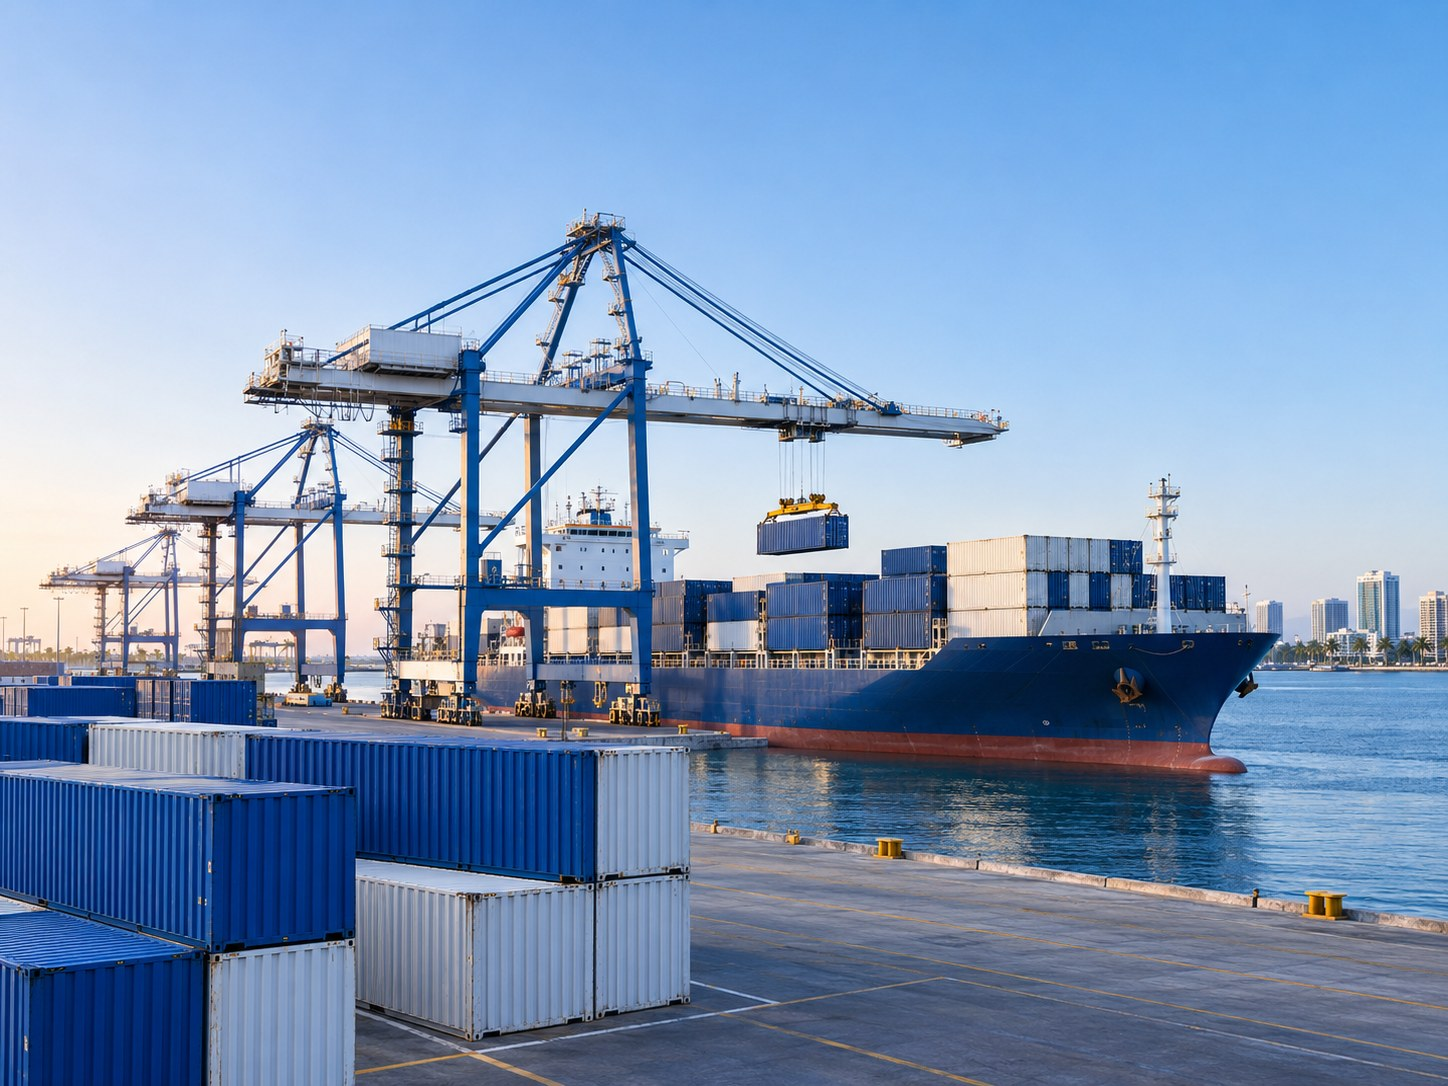
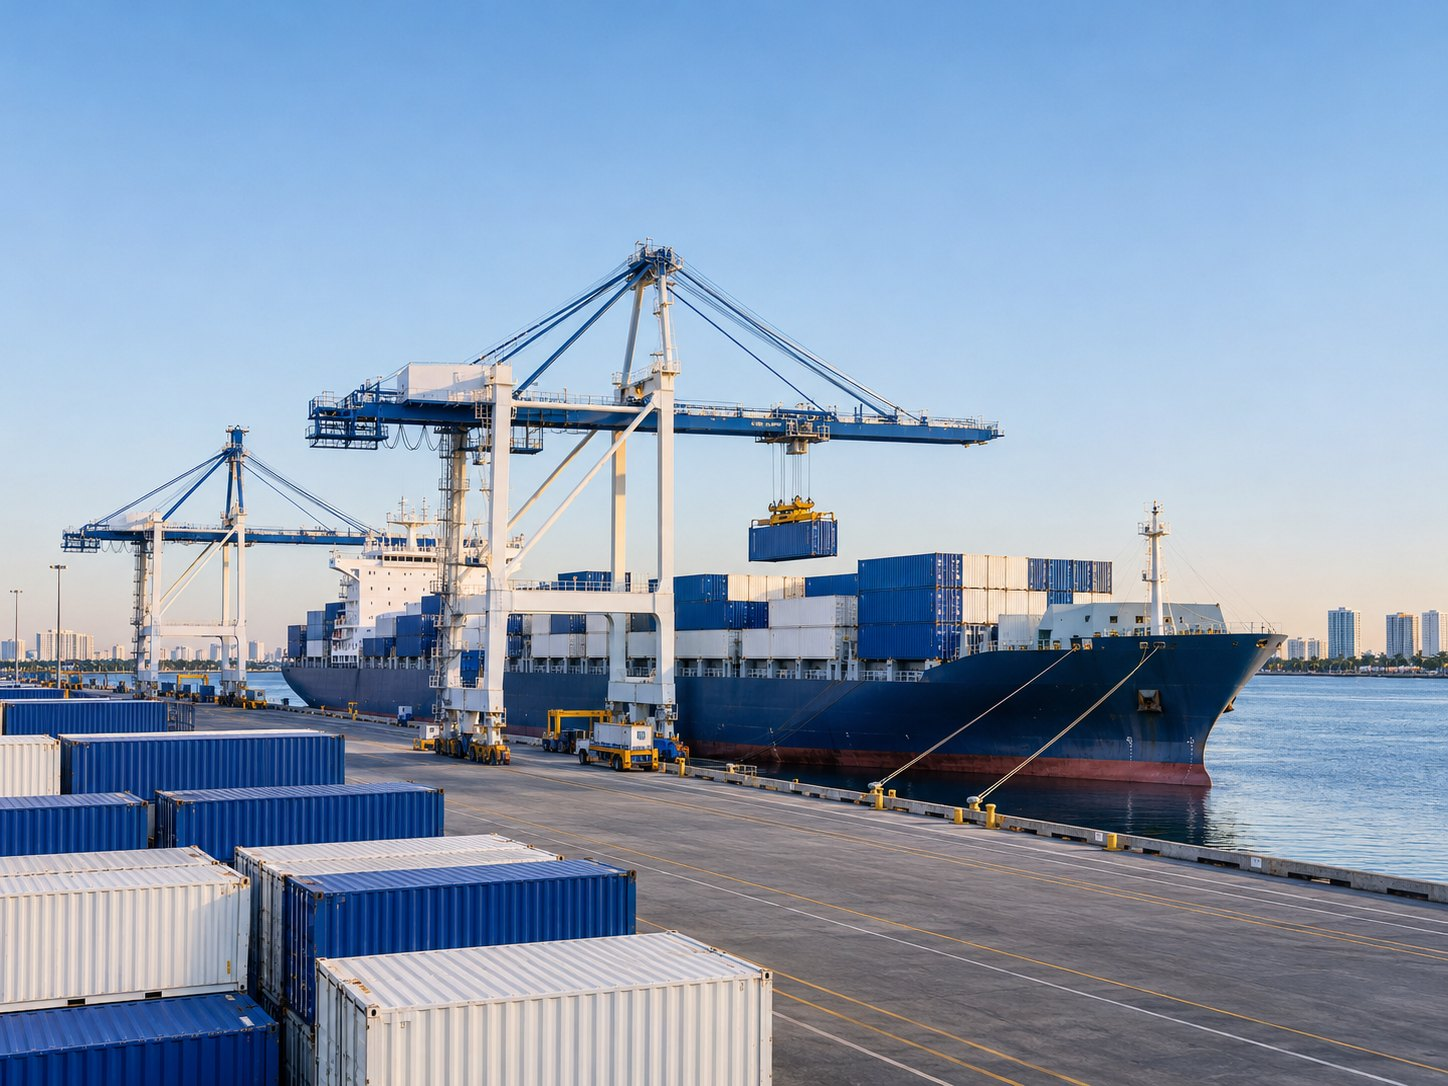
Add all nine site photos and PHP contact form handler
Claude-Session: https://claude.ai/code/session_01FbFWevLtFfbmyHu51rb2n2

diff --git a/index.html b/index.html
@@ -12,7 +12,7 @@
 <meta property="og:description" content="A Florida based international trading company connecting U.S.A. manufacturers with opportunities in Argentina and South America.">
 <meta property="og:image" content="images/IMG-01.jpg">
 <meta name="description" content="JUCCA LLC is a Florida based international trading company connecting U.S.A. manufacturers with opportunities in Argentina and South America.">
-<!-- Images: add images/IMG-03 ... IMG-09 (.jpg or .png) and they appear automatically. Until then the product cards show an icon tile and the factory photo is hidden. -->
+<!-- Images: images/IMG-01 ... IMG-09 (.jpg or .png). If a product photo is missing its card shows an icon tile, and a missing factory photo hides that column. -->
 <!-- Contact form: sends through send.php (same folder). The delivery address is set at the top of send.php. -->
 <!-- Language: the EN / ES buttons switch the page. The Spanish text lives in the ES table in the script at the end of this file. Add ?lang=es to the address to open in Spanish. -->
 <link rel="preconnect" href="https://fonts.googleapis.com">
@@ -37,7 +37,6 @@ h1{font-size:38px!important}h2{font-size:28px!important}
 .media{height:260px!important}
 .mission{font-size:22px!important}
 .card{flex:1 1 calc(50% - 12px)!important;min-width:0;padding:10px!important;gap:10px!important}
-.card .tile{height:110px!important}
 .card .tile svg{width:36px;height:36px}
 .card h3{font-size:15px!important}.card p{font-size:13px!important;line-height:1.45!important}
 form{padding:22px!important}
@@ -150,7 +149,7 @@ input:focus,textarea:focus,a:focus-visible,button:focus-visible{outline:3px soli
 </div>
 <div style="display: flex; flex-wrap: wrap; gap: 24px">
 <div class="card" style="flex: 1 1 320px; box-sizing: border-box; background: #FFFFFF; border: 1px solid #D9E2EE; border-radius: 8px; padding: 16px; display: flex; flex-direction: column; gap: 16px">
-<div class="tile" style="box-sizing: border-box; width: 100%; height: 200px; background: #E9F0F9; border-radius: 6px; display: flex; align-items: center; justify-content: center; position: relative; overflow: hidden">
+<div class="tile" style="box-sizing: border-box; width: 100%; aspect-ratio: 4 / 3; background: #E9F0F9; border-radius: 6px; display: flex; align-items: center; justify-content: center; position: relative; overflow: hidden">
 <svg aria-hidden="true" width="56" height="56" viewBox="0 0 24 24" fill="none" stroke="#0B5FC4" stroke-width="1.5" stroke-linecap="round" stroke-linejoin="round"><path d="M12 3.2c3 3.6 5.6 6.7 5.6 10a5.6 5.6 0 0 1-11.2 0c0-3.3 2.6-6.4 5.6-10z"></path><path d="M9.2 13.6a2.9 2.9 0 0 0 2.4 2.8"></path></svg>
 <img src="images/IMG-03.jpg" alt="" loading="lazy" onerror="if(!this.dataset.f){this.dataset.f=1;this.src='images/IMG-03.png'}else{this.remove()}" style="position: absolute; inset: 0; width: 100%; height: 100%; object-fit: cover">
 </div>
@@ -159,7 +158,7 @@ input:focus,textarea:focus,a:focus-visible,button:focus-visible{outline:3px soli
 <p style="margin: 0; font-size: 15px; line-height: 1.6; color: #3D4A60">Commercial and residential systems.</p>
 </div>
 </div><div class="card" style="flex: 1 1 320px; box-sizing: border-box; background: #FFFFFF; border: 1px solid #D9E2EE; border-radius: 8px; padding: 16px; display: flex; flex-direction: column; gap: 16px">
-<div class="tile" style="box-sizing: border-box; width: 100%; height: 200px; background: #E9F0F9; border-radius: 6px; display: flex; align-items: center; justify-content: center; position: relative; overflow: hidden">
+<div class="tile" style="box-sizing: border-box; width: 100%; aspect-ratio: 4 / 3; background: #E9F0F9; border-radius: 6px; display: flex; align-items: center; justify-content: center; position: relative; overflow: hidden">
 <svg aria-hidden="true" width="56" height="56" viewBox="0 0 24 24" fill="none" stroke="#0B5FC4" stroke-width="1.5" stroke-linecap="round" stroke-linejoin="round"><path d="M12 3.2c3 3.6 5.6 6.7 5.6 10a5.6 5.6 0 0 1-11.2 0c0-3.3 2.6-6.4 5.6-10z"></path><path d="M9.2 13.6a2.9 2.9 0 0 0 2.4 2.8"></path></svg>
 <img src="images/IMG-04.jpg" alt="" loading="lazy" onerror="if(!this.dataset.f){this.dataset.f=1;this.src='images/IMG-04.png'}else{this.remove()}" style="position: absolute; inset: 0; width: 100%; height: 100%; object-fit: cover">
 </div>
@@ -168,7 +167,7 @@ input:focus,textarea:focus,a:focus-visible,button:focus-visible{outline:3px soli
 <p style="margin: 0; font-size: 15px; line-height: 1.6; color: #3D4A60">Commercial and residential RO units.</p>
 </div>
 </div><div class="card" style="flex: 1 1 320px; box-sizing: border-box; background: #FFFFFF; border: 1px solid #D9E2EE; border-radius: 8px; padding: 16px; display: flex; flex-direction: column; gap: 16px">
-<div class="tile" style="box-sizing: border-box; width: 100%; height: 200px; background: #E9F0F9; border-radius: 6px; display: flex; align-items: center; justify-content: center; position: relative; overflow: hidden">
+<div class="tile" style="box-sizing: border-box; width: 100%; aspect-ratio: 4 / 3; background: #E9F0F9; border-radius: 6px; display: flex; align-items: center; justify-content: center; position: relative; overflow: hidden">
 <svg aria-hidden="true" width="56" height="56" viewBox="0 0 24 24" fill="none" stroke="#0B5FC4" stroke-width="1.5" stroke-linecap="round" stroke-linejoin="round"><path d="M12 3.2c3 3.6 5.6 6.7 5.6 10a5.6 5.6 0 0 1-11.2 0c0-3.3 2.6-6.4 5.6-10z"></path><path d="M9.2 13.6a2.9 2.9 0 0 0 2.4 2.8"></path></svg>
 <img src="images/IMG-05.jpg" alt="" loading="lazy" onerror="if(!this.dataset.f){this.dataset.f=1;this.src='images/IMG-05.png'}else{this.remove()}" style="position: absolute; inset: 0; width: 100%; height: 100%; object-fit: cover">
 </div>
@@ -177,7 +176,7 @@ input:focus,textarea:focus,a:focus-visible,button:focus-visible{outline:3px soli
 <p style="margin: 0; font-size: 15px; line-height: 1.6; color: #3D4A60">Softening equipment for homes and businesses.</p>
 </div>
 </div><div class="card" style="flex: 1 1 320px; box-sizing: border-box; background: #FFFFFF; border: 1px solid #D9E2EE; border-radius: 8px; padding: 16px; display: flex; flex-direction: column; gap: 16px">
-<div class="tile" style="box-sizing: border-box; width: 100%; height: 200px; background: #E9F0F9; border-radius: 6px; display: flex; align-items: center; justify-content: center; position: relative; overflow: hidden">
+<div class="tile" style="box-sizing: border-box; width: 100%; aspect-ratio: 4 / 3; background: #E9F0F9; border-radius: 6px; display: flex; align-items: center; justify-content: center; position: relative; overflow: hidden">
 <svg aria-hidden="true" width="56" height="56" viewBox="0 0 24 24" fill="none" stroke="#0B5FC4" stroke-width="1.5" stroke-linecap="round" stroke-linejoin="round"><path d="M12 3.2c3 3.6 5.6 6.7 5.6 10a5.6 5.6 0 0 1-11.2 0c0-3.3 2.6-6.4 5.6-10z"></path><path d="M9.2 13.6a2.9 2.9 0 0 0 2.4 2.8"></path></svg>
 <img src="images/IMG-06.jpg" alt="" loading="lazy" onerror="if(!this.dataset.f){this.dataset.f=1;this.src='images/IMG-06.png'}else{this.remove()}" style="position: absolute; inset: 0; width: 100%; height: 100%; object-fit: cover">
 </div>
@@ -186,7 +185,7 @@ input:focus,textarea:focus,a:focus-visible,button:focus-visible{outline:3px soli
 <p style="margin: 0; font-size: 15px; line-height: 1.6; color: #3D4A60">Cartridges, housings and membrane elements.</p>
 </div>
 </div><div class="card" style="flex: 1 1 320px; box-sizing: border-box; background: #FFFFFF; border: 1px solid #D9E2EE; border-radius: 8px; padding: 16px; display: flex; flex-direction: column; gap: 16px">
-<div class="tile" style="box-sizing: border-box; width: 100%; height: 200px; background: #E9F0F9; border-radius: 6px; display: flex; align-items: center; justify-content: center; position: relative; overflow: hidden">
+<div class="tile" style="box-sizing: border-box; width: 100%; aspect-ratio: 4 / 3; background: #E9F0F9; border-radius: 6px; display: flex; align-items: center; justify-content: center; position: relative; overflow: hidden">
 <svg aria-hidden="true" width="56" height="56" viewBox="0 0 24 24" fill="none" stroke="#0B5FC4" stroke-width="1.5" stroke-linecap="round" stroke-linejoin="round"><path d="M12 3.2c3 3.6 5.6 6.7 5.6 10a5.6 5.6 0 0 1-11.2 0c0-3.3 2.6-6.4 5.6-10z"></path><path d="M9.2 13.6a2.9 2.9 0 0 0 2.4 2.8"></path></svg>
 <img src="images/IMG-07.jpg" alt="" loading="lazy" onerror="if(!this.dataset.f){this.dataset.f=1;this.src='images/IMG-07.png'}else{this.remove()}" style="position: absolute; inset: 0; width: 100%; height: 100%; object-fit: cover">
 </div>
@@ -195,7 +194,7 @@ input:focus,textarea:focus,a:focus-visible,button:focus-visible{outline:3px soli
 <p style="margin: 0; font-size: 15px; line-height: 1.6; color: #3D4A60">Spare parts that keep installed systems running.</p>
 </div>
 </div><div class="card" style="flex: 1 1 320px; box-sizing: border-box; background: #FFFFFF; border: 1px solid #D9E2EE; border-radius: 8px; padding: 16px; display: flex; flex-direction: column; gap: 16px">
-<div class="tile" style="box-sizing: border-box; width: 100%; height: 200px; background: #E9F0F9; border-radius: 6px; display: flex; align-items: center; justify-content: center; position: relative; overflow: hidden">
+<div class="tile" style="box-sizing: border-box; width: 100%; aspect-ratio: 4 / 3; background: #E9F0F9; border-radius: 6px; display: flex; align-items: center; justify-content: center; position: relative; overflow: hidden">
 <svg aria-hidden="true" width="56" height="56" viewBox="0 0 24 24" fill="none" stroke="#0B5FC4" stroke-width="1.5" stroke-linecap="round" stroke-linejoin="round"><path d="M12 3.2c3 3.6 5.6 6.7 5.6 10a5.6 5.6 0 0 1-11.2 0c0-3.3 2.6-6.4 5.6-10z"></path><path d="M9.2 13.6a2.9 2.9 0 0 0 2.4 2.8"></path></svg>
 <img src="images/IMG-08.jpg" alt="" loading="lazy" onerror="if(!this.dataset.f){this.dataset.f=1;this.src='images/IMG-08.png'}else{this.remove()}" style="position: absolute; inset: 0; width: 100%; height: 100%; object-fit: cover">
 </div>
